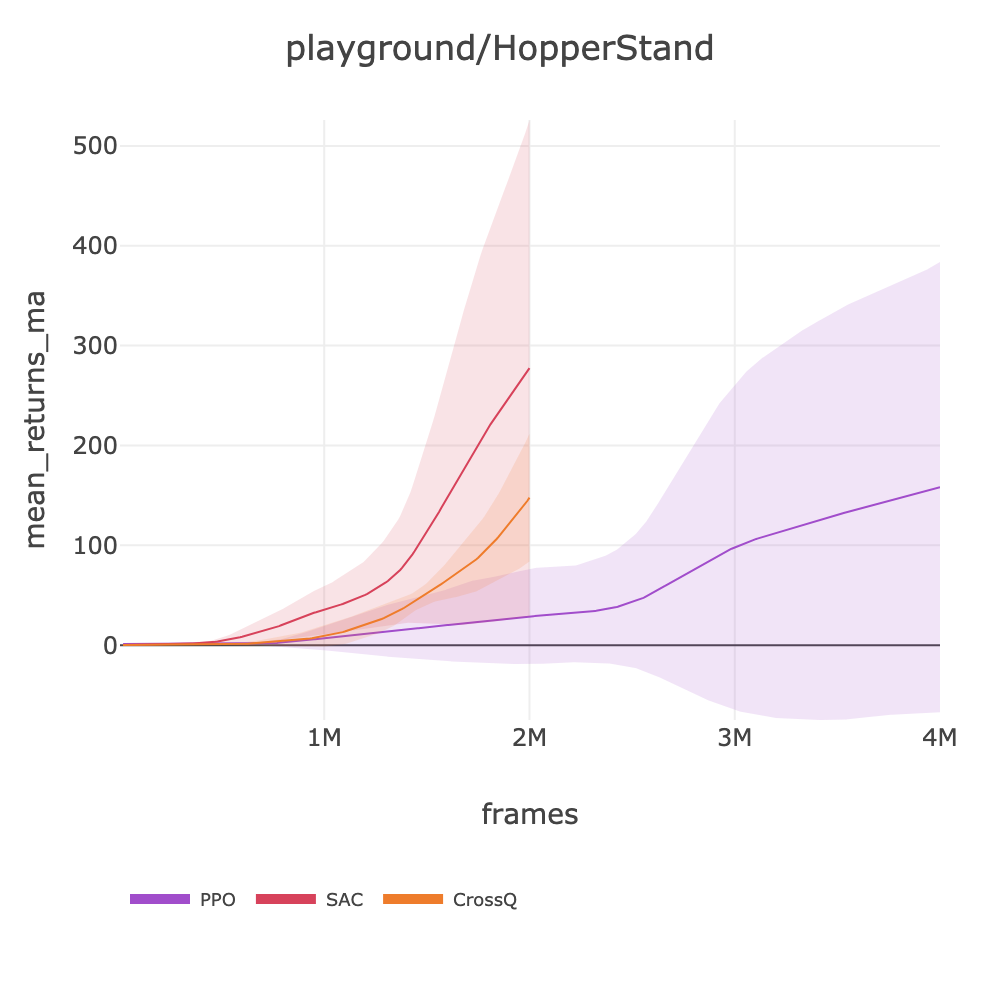
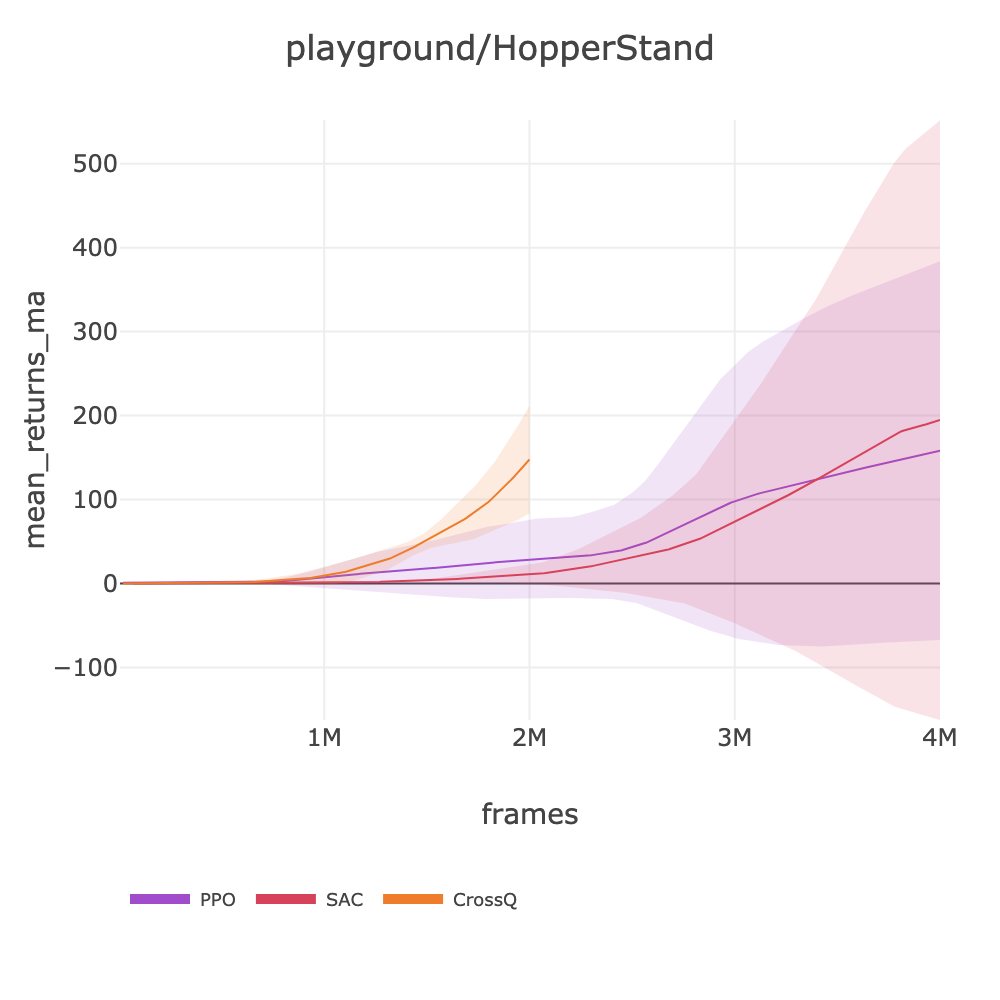
feat: intake SAC WalkerStand=966.84, SAC HopperStand=194.76

diff --git a/docs/BENCHMARKS.md b/docs/BENCHMARKS.md
@@ -866,7 +866,7 @@ source .env && uv run slm-lab run-remote --gpu --playground \
 | | SAC | ❌ | 1.56 | sac_playground_arc_hard | [sac_playground_arc_utd1_hopperhop_2026_03_06_235252](https://huggingface.co/datasets/SLM-Lab/benchmark-dev/tree/main/data/sac_playground_arc_utd1_hopperhop_2026_03_06_235252) | | ~67 | 1M | ~4.1h |
 | playground/HopperStand | PPO | ❌ | 158.28 | ppo_playground_arc | [ppo_playground_arc_hopperstand_2026_03_07_124451](https://huggingface.co/datasets/SLM-Lab/benchmark-dev/tree/main/data/ppo_playground_arc_hopperstand_2026_03_07_124451) | ~645 | ~300 | 4M | ~3.7h |
 | | CrossQ | ❌ | 147.77 | crossq_playground_arc | [crossq_playground_arc_hard_hopperstand_2026_03_07_184954](https://huggingface.co/datasets/SLM-Lab/benchmark-dev/tree/main/data/crossq_playground_arc_hard_hopperstand_2026_03_07_184954) | | ~200 | 2M | ~2.8h |
-| | SAC | ❌ | 277.46 | sac_playground_arc_fast | [sac_playground_arc_hopperstand_2026_03_06_125934](https://huggingface.co/datasets/SLM-Lab/benchmark-dev/tree/main/data/sac_playground_arc_hopperstand_2026_03_06_125934) | | ~350 | 1M | ~0.8h |
+| | SAC | ❌ | 194.76 | sac_playground_arc_fast | [sac_playground_arc_fast_hopperstand_2026_03_10_095030](https://huggingface.co/datasets/SLM-Lab/benchmark-dev/tree/main/data/sac_playground_arc_fast_hopperstand_2026_03_10_095030) | | ~328 | 4M | ~3.4h |
 | playground/HumanoidRun | PPO | ❌ | 2.32 | ppo_playground_arc | [ppo_playground_arc_humanoidrun_2026_03_08_123543](https://huggingface.co/datasets/SLM-Lab/benchmark-dev/tree/main/data/ppo_playground_arc_humanoidrun_2026_03_08_123543) | ~11 | ~300 | 4M | ~3.7h |
 | | CrossQ | ❌ | 1.96 | crossq_playground_arc_vhard | [crossq_playground_arc_vhard_humanoidrun_2026_03_07_210456](https://huggingface.co/datasets/SLM-Lab/benchmark-dev/tree/main/data/crossq_playground_arc_vhard_humanoidrun_2026_03_07_210456) | | ~189 | 1M | ~1.5h |
 | | SAC | ❌ | 7.90 | sac_playground_arc_fast | [sac_playground_arc_fast_humanoidrun_2026_03_07_001036](https://huggingface.co/datasets/SLM-Lab/benchmark-dev/tree/main/data/sac_playground_arc_fast_humanoidrun_2026_03_07_001036) | | ~335 | 4M | ~3.3h |
@@ -899,7 +899,7 @@ source .env && uv run slm-lab run-remote --gpu --playground \
 | playground/WalkerStand | PPO | ❌ | 294.79 | ppo_playground_arc | [ppo_playground_arc_walkerstand_2026_03_07_124400](https://huggingface.co/datasets/SLM-Lab/benchmark-dev/tree/main/data/ppo_playground_arc_walkerstand_2026_03_07_124400) | ~983 | ~300 | 4M | ~3.7h |
 | | PPO | ❌ | 304.58 | ppo_playground_arc | [ppo_playground_arc_loco_walkerstand_2026_03_07_220700](https://huggingface.co/datasets/SLM-Lab/benchmark-dev/tree/main/data/ppo_playground_arc_loco_walkerstand_2026_03_07_220700) | | ~400 | 4M | ~2.8h |
 | | CrossQ | ⚠ | 903.27 | crossq_playground_arc | [crossq_playground_arc_hard_walkerstand_2026_03_07_214118](https://huggingface.co/datasets/SLM-Lab/benchmark-dev/tree/main/data/crossq_playground_arc_hard_walkerstand_2026_03_07_214118) | | ~450 | 2M | ~1.2h |
-| | SAC | ⚠ | 934.20 | sac_playground_arc_fast | [sac_playground_arc_fast_walkerstand_2026_03_06_114303](https://huggingface.co/datasets/SLM-Lab/benchmark-dev/tree/main/data/sac_playground_arc_fast_walkerstand_2026_03_06_114303) | | ~345 | 1M | ~0.8h |
+| | SAC | ⚠ | 966.84 | sac_playground_arc_fast | [sac_playground_arc_fast_walkerstand_2026_03_10_094942](https://huggingface.co/datasets/SLM-Lab/benchmark-dev/tree/main/data/sac_playground_arc_fast_walkerstand_2026_03_10_094942) | | ~308 | 4M | ~3.6h |
 | playground/WalkerWalk | PPO | ❌ | 73.21 | ppo_playground_arc | [ppo_playground_arc_walkerwalk_2026_03_06_134336](https://huggingface.co/datasets/SLM-Lab/benchmark-dev/tree/main/data/ppo_playground_arc_walkerwalk_2026_03_06_134336) | ~902 | ~2000 | 2M | ~0.3h |
 | | CrossQ | ✅ | 919.08 | crossq_playground_arc | [crossq_playground_arc_hard_walkerwalk_2026_03_07_220905](https://huggingface.co/datasets/SLM-Lab/benchmark-dev/tree/main/data/crossq_playground_arc_hard_walkerwalk_2026_03_07_220905) | | ~450 | 2M | ~1.2h |
 | | SAC | ⚠ | 883.86 | sac_playground_arc_fast | [sac_playground_arc_fast_walkerwalk_2026_03_06_114337](https://huggingface.co/datasets/SLM-Lab/benchmark-dev/tree/main/data/sac_playground_arc_fast_walkerwalk_2026_03_06_114337) | | ~345 | 1M | ~0.8h |
